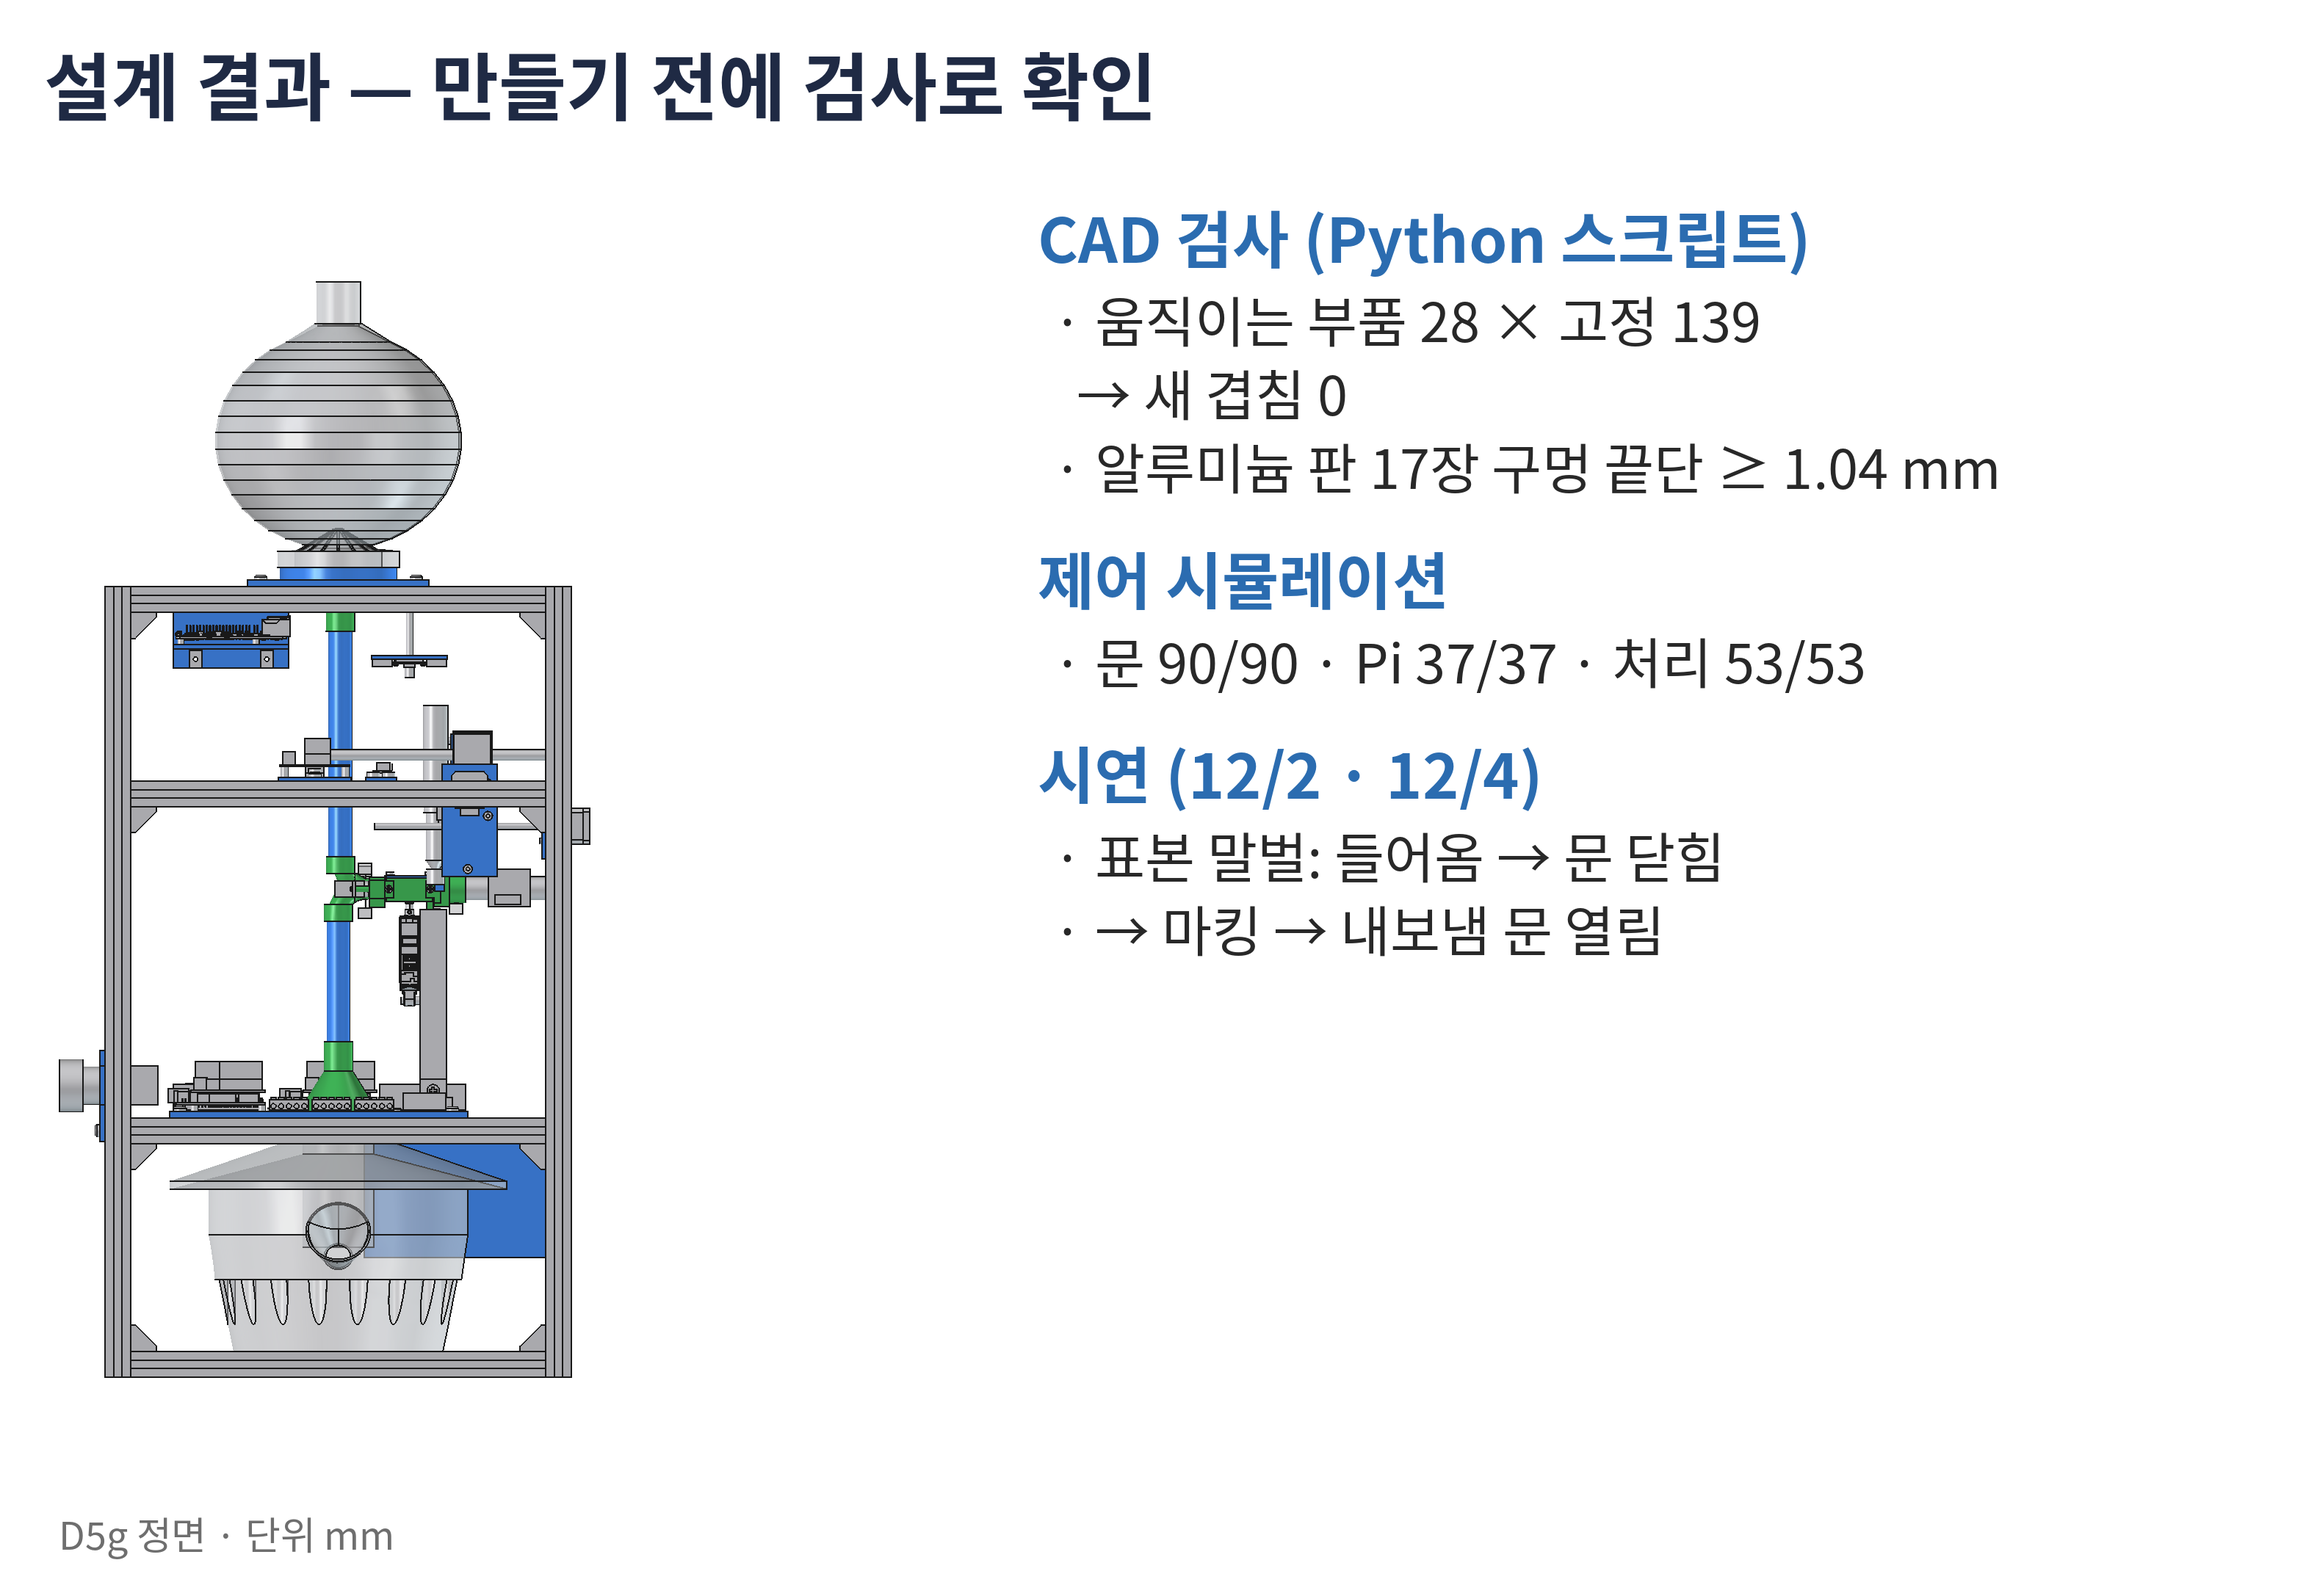
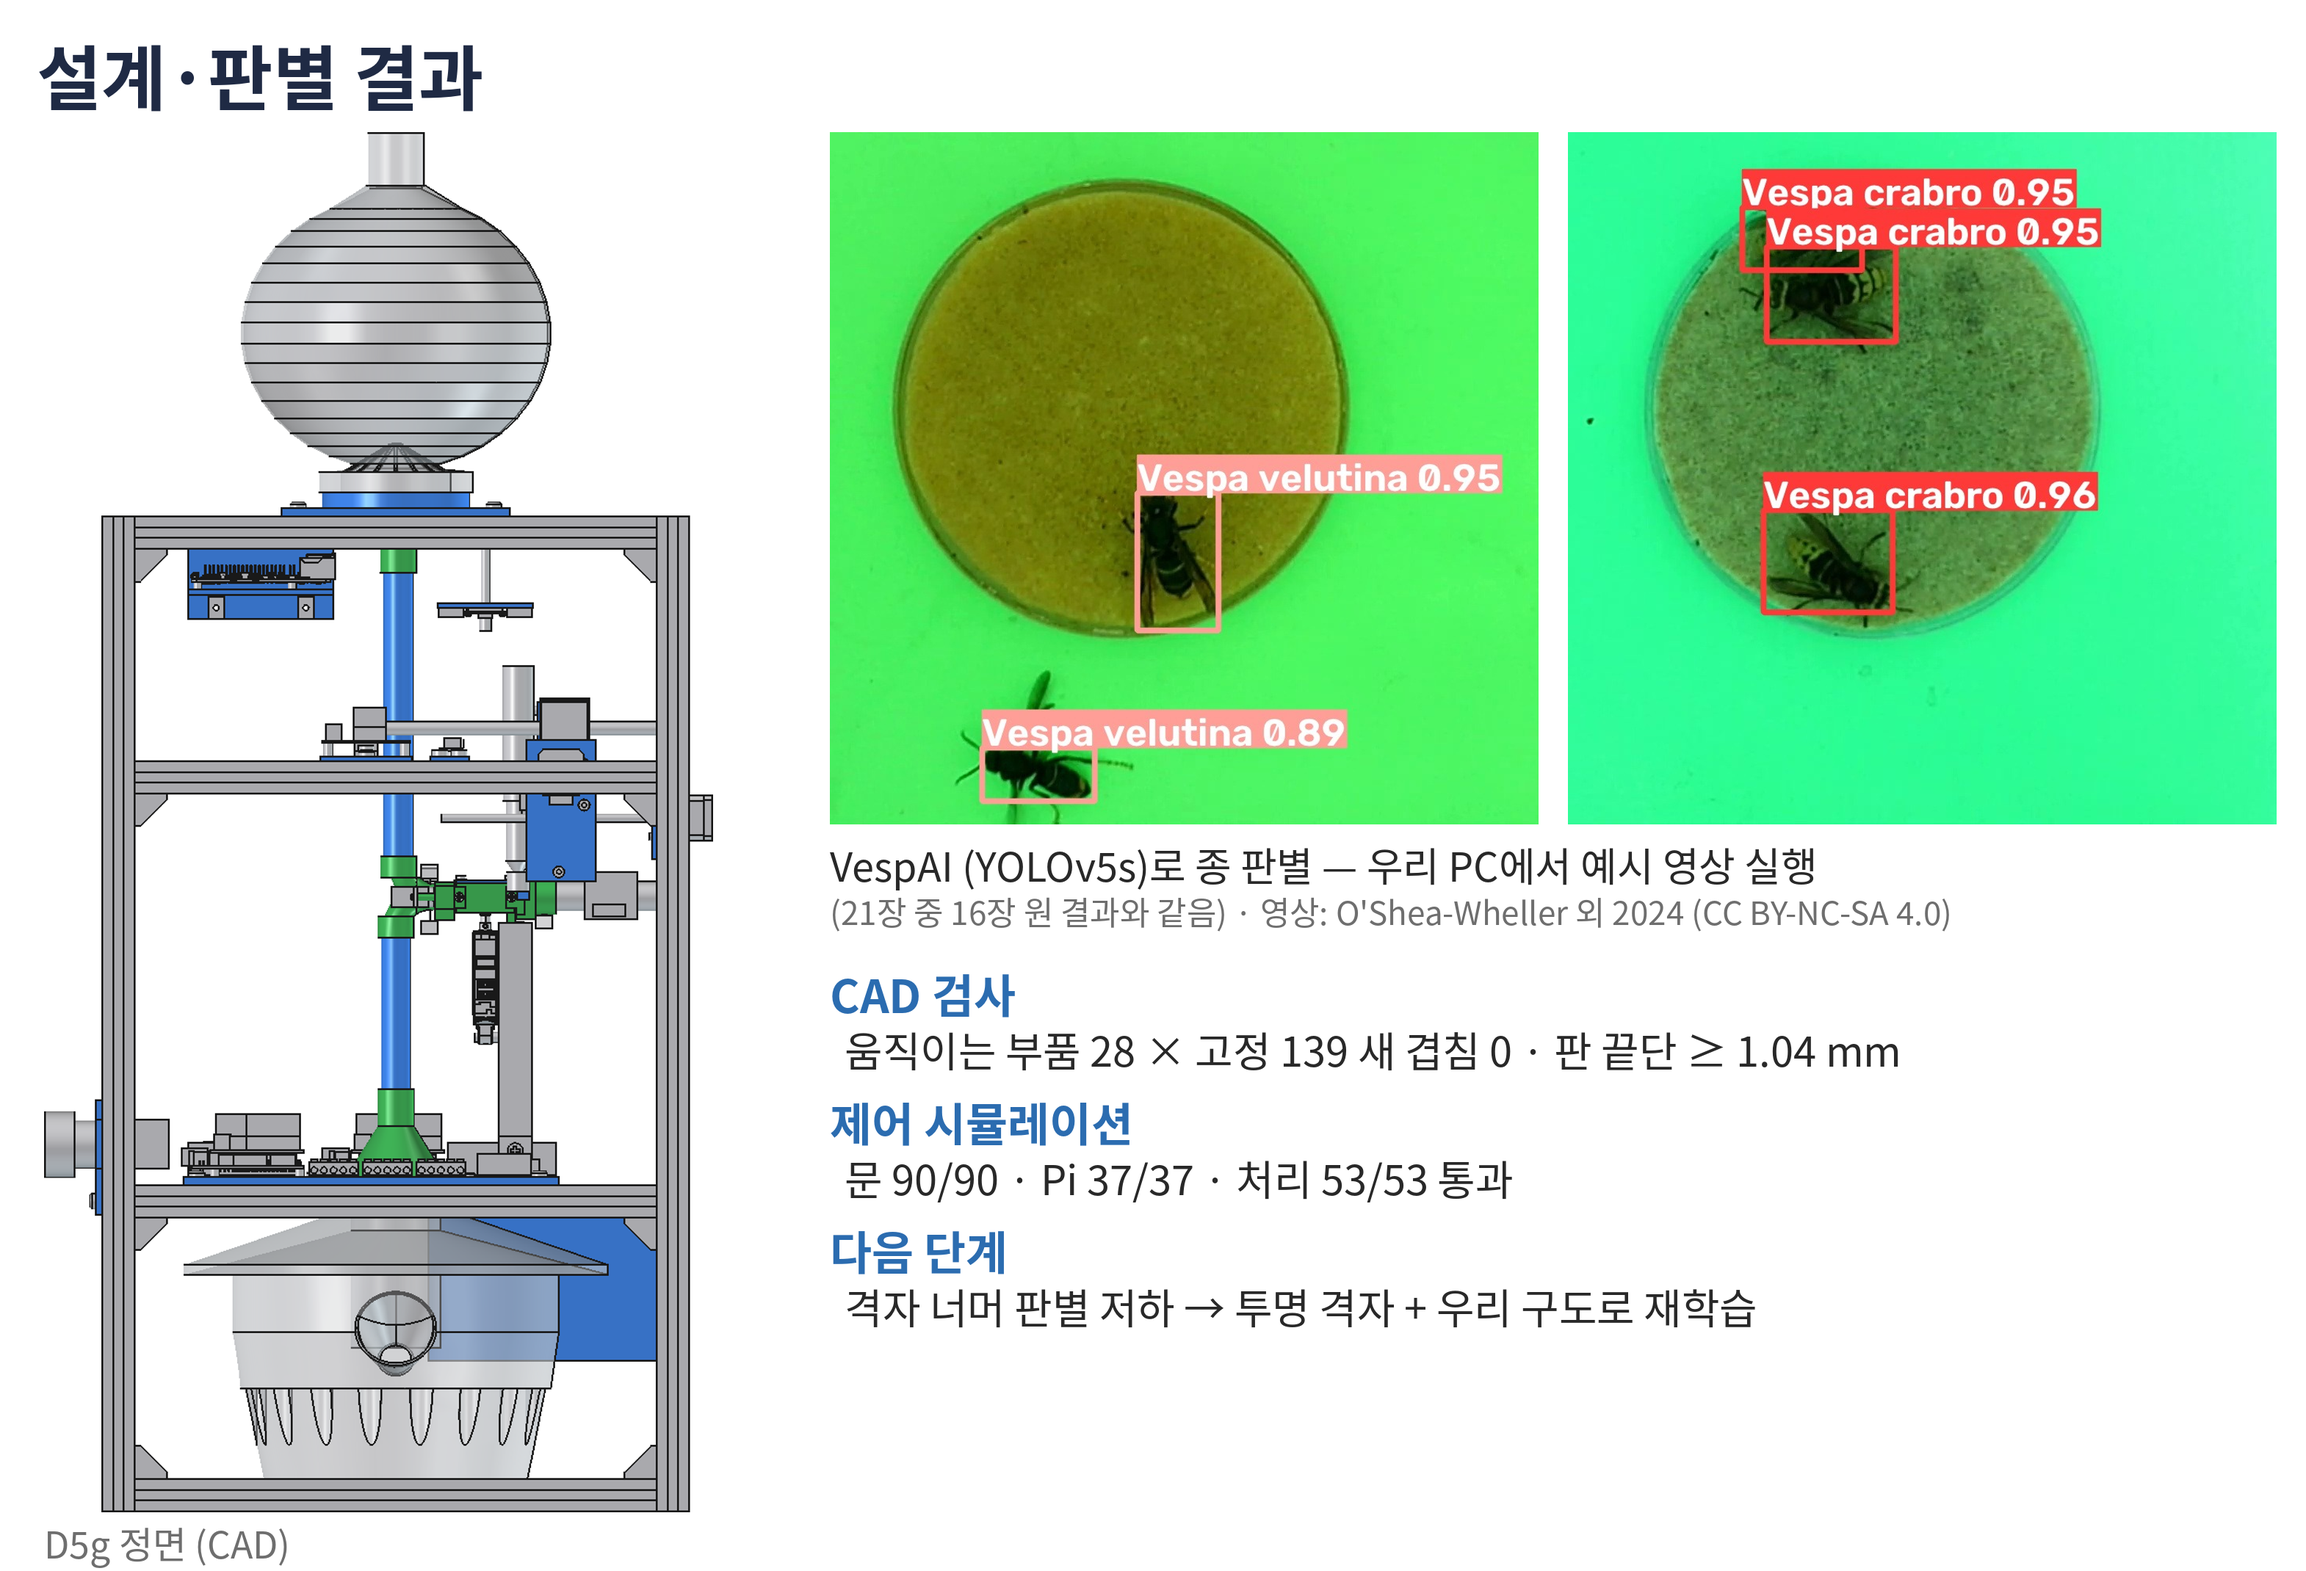
[서현] 창의융합 판넬 초안 스크립트 + VespAI 판별 그림 넣은 결과 그림 (CAP-AI-62)
Claude-Session: https://claude.ai/code/session_01RWCzqVuPhrynBXeDi6fBqB

diff --git a/design/poster/mkpanel.py b/design/poster/mkpanel.py
@@ -1,0 +1,44 @@
+import re, shutil, zipfile, os, sys
+from xml.sax.saxutils import escape as e
+from PIL import Image
+SRC=sys.argv[1]; OUT=sys.argv[2]
+D='build/panel'; shutil.rmtree(D,ignore_errors=True); zipfile.ZipFile(SRC).extractall(D)
+S=D+'/ppt/slides/slide1.xml'; RL=D+'/ppt/slides/_rels/slide1.xml.rels'
+x=open(S,encoding='utf-8').read(); rels=open(RL,encoding='utf-8').read()
+CM=360000
+# 제목 상자
+m=[m for m in re.finditer(r'<p:sp>.*?</p:sp>',x,re.S) if 'name="Text Box 9"' in m.group()][0]; sp=m.group()
+TITLE=['등검은말벌 둥지 추적 마킹 트랩','Automatic Marking Trap for Tracking Nests of Vespa velutina','Team 초벌','기계자동차공학부 기계공학전공 이서현 · 이승준']
+ps=re.findall(r'<a:p>.*?</a:p>',sp,re.S); new=''
+for p,t in zip(ps,TITLE):
+    ppr=re.search(r'<a:pPr.*?</a:pPr>|<a:pPr[^>]*/>',p,re.S); ppr=ppr.group() if ppr else ''
+    rpr=re.search(r'<a:rPr[^>]*/>|<a:rPr[^>]*>.*?</a:rPr>',p,re.S).group()
+    new+=f'<a:p>{ppr}<a:r>{rpr}<a:t>{e(t)}</a:t></a:r></a:p>'
+a=sp.index('<a:p>'); b=sp.index('</p:txBody>')
+x=x[:m.start()]+sp[:a]+new+sp[b:]+x[m.end():]
+nid=[300]; add=[]
+def tb(x0,y0,w,h,lines,sz=3200):
+    nid[0]+=1
+    ps=''.join(f'<a:p><a:pPr marL="457200" indent="-457200"><a:lnSpc><a:spcPct val="115000"/></a:lnSpc><a:spcBef><a:spcPts val="900"/></a:spcBef><a:buFont typeface="Arial"/><a:buChar char="•"/></a:pPr><a:r><a:rPr lang="ko-KR" sz="{sz}" dirty="0"><a:solidFill><a:srgbClr val="1F2A44"/></a:solidFill><a:latin typeface="맑은 고딕"/><a:ea typeface="맑은 고딕"/></a:rPr><a:t>{e(l)}</a:t></a:r></a:p>' for l in lines)
+    add.append(f'<p:sp><p:nvSpPr><p:cNvPr id="{nid[0]}" name="본문 {nid[0]}"/><p:cNvSpPr txBox="1"/><p:nvPr/></p:nvSpPr><p:spPr><a:xfrm><a:off x="{int(x0*CM)}" y="{int(y0*CM)}"/><a:ext cx="{int(w*CM)}" cy="{int(h*CM)}"/></a:xfrm><a:prstGeom prst="rect"><a:avLst/></a:prstGeom><a:noFill/></p:spPr><p:txBody><a:bodyPr wrap="square" lIns="0" rIns="0"><a:normAutofit/></a:bodyPr><a:lstStyle/>{ps}</p:txBody></p:sp>')
+ri=[60]
+def pic(img,x0,y0,w):
+    global rels
+    im=Image.open(img); h=w*im.height/im.width; nid[0]+=1; rid=f'rId{ri[0]}'; ri[0]+=1
+    fn=os.path.basename(img); shutil.copy(img,f'{D}/ppt/media/{fn}')
+    rels=rels.replace('</Relationships>',f'<Relationship Id="{rid}" Type="http://schemas.openxmlformats.org/officeDocument/2006/relationships/image" Target="../media/{fn}"/></Relationships>')
+    add.append(f'<p:pic><p:nvPicPr><p:cNvPr id="{nid[0]}" name="그림 {nid[0]}"/><p:cNvPicPr><a:picLocks noChangeAspect="1"/></p:cNvPicPr><p:nvPr/></p:nvPicPr><p:blipFill><a:blip r:embed="{rid}"/><a:stretch><a:fillRect/></a:stretch></p:blipFill><p:spPr><a:xfrm><a:off x="{int(x0*CM)}" y="{int(y0*CM)}"/><a:ext cx="{int(w*CM)}" cy="{int(h*CM)}"/></a:xfrm><a:prstGeom prst="rect"><a:avLst/></a:prstGeom></p:spPr></p:pic>')
+    return h
+C=__import__('panel_content')
+tb(5.0,26.6,17.8,28.5,C.P11,3600); tb(26.6,26.6,14.6,28.5,C.P12,3600)
+hh=(55.8-23.4-0.5)/2; ww=hh*31.4/21.4; xx=43.5+(37.6-ww)/2
+pic('fig_rep.png',xx,23.4,ww); pic('fig_idea.png',xx,23.4+hh+0.5,ww)
+pic('fig_goal.png',4.2,63.2,37.0); pic('fig_result.png',42.0,63.2,37.6)
+tb(8.6,98.0,31.6,12.0,C.P41,3400); tb(44.6,97.6,36.0,12.0,C.P42,3400)
+x=x.replace('</p:spTree>',''.join(add)+'</p:spTree>')
+open(S,'w',encoding='utf-8').write(x); open(RL,'w',encoding='utf-8').write(rels)
+if os.path.exists(OUT): os.remove(OUT)
+z=zipfile.ZipFile(OUT,'w',zipfile.ZIP_DEFLATED)
+for root,_,fs in os.walk(D):
+    for f in fs: p=os.path.join(root,f); z.write(p,os.path.relpath(p,D))
+z.close(); print(OUT)

diff --git a/design/poster/panel_content.py b/design/poster/panel_content.py
@@ -1,0 +1,4 @@
+P11=['등검은말벌: 꿀벌을 잡아먹는 외래종, 생태계교란 생물 (2019 지정)','방제의 핵심은 둥지 제거 — 트랩은 일벌만 줄인다','둥지 찾기의 첫 단계 (말벌을 잡아 표시)는 지금 사람이 손으로 한다 → 위험하고 느림','목표: 이 단계를 사람 없이 하는 트랩 모듈']
+P12=['시판 말벌 트랩에 얹는 모듈 (공공기관 B2G)','들어옴 → 카메라 AI 판별 → 승강 바닥 고정 → XY 펜으로 가슴에 점 → 내보냄·시각 기록','여왕벌·다른 종은 격리']
+P41=['여왕벌 마킹 통 원리를 기계화해 사람 손 없이 고정·표시','CAD 움직임·간섭 검사, 제어 시뮬레이션 통과','표본 말벌로 문 → 마킹 → 내보냄 시연']
+P42=['둥지 탐색 첫 단계의 사람 위험·시간 감소','재포획 시각 → 둥지까지 거리 범위 (방제 기관용)','2027 여름 실물 시험 → 특허 출원 검토']
